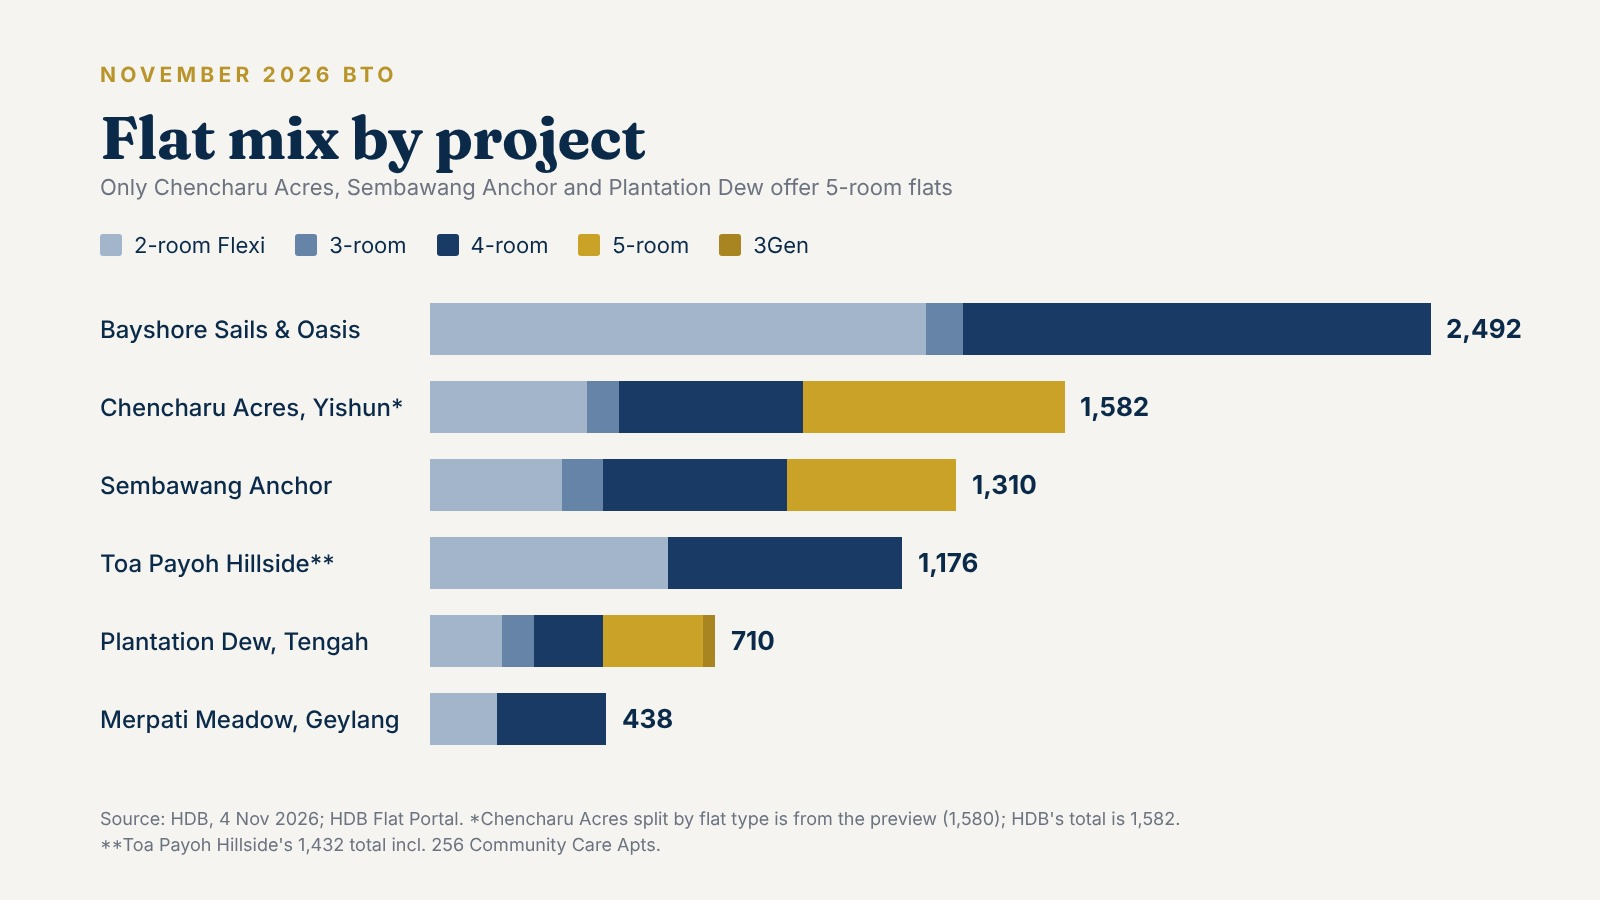
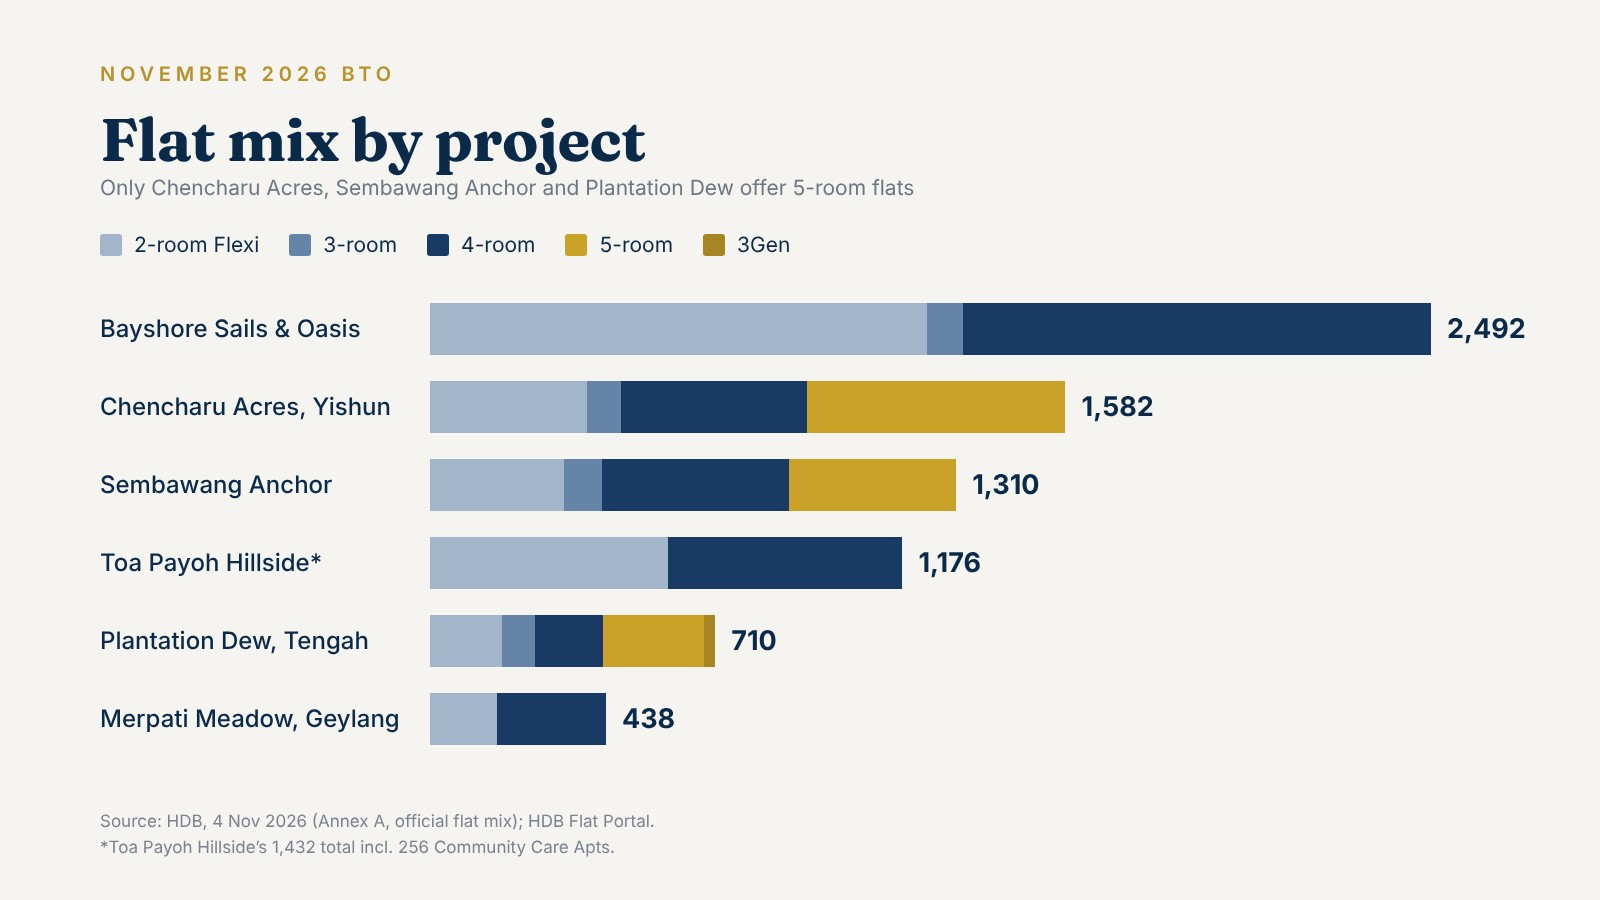
Nov 2026 BTO post: official flat mix from HDB Annex A
Chencharu Acres, Sembawang Anchor and Plantation Dew flat-type splits
replaced with HDB's official figures (4 Nov 2026); flat-mix chart
regenerated; dates and sources updated.

Claude-Session: https://claude.ai/code/session_0178RRDcT9MNhhZe1hm3Vc5W

diff --git a/blog-post-november-2026-bto-launch.html b/blog-post-november-2026-bto-launch.html
@@ -29,7 +29,7 @@
     "logo": { "@type": "ImageObject", "url": "https://sereneleeproperty.com/assets/era-logo.png" }
   },
   "datePublished": "2026-10-19",
-  "dateModified": "2026-11-05",
+  "dateModified": "2026-11-06",
   "mainEntityOfPage": { "@type": "WebPage", "@id": "https://sereneleeproperty.com/blog-post-november-2026-bto-launch" }
 }
 </script>
@@ -102,7 +102,7 @@
   <a href="/blog" class="post-back">&larr; Back to Blog</a>
   <span class="eyebrow">HDB &middot; BTO Launch Guide</span>
   <h1 style="font-size:2rem;max-width:760px;">November 2026 BTO Launch: 7 Projects, 7,964 Flats &mdash; What Buyers Need to Know</h1>
-  <p class="post-meta">Updated 5 Nov 2026 &middot; 6 min read</p>
+  <p class="post-meta">Updated 6 Nov 2026 &middot; 6 min read</p>
 </div>
 
 <div class="container">
@@ -154,13 +154,13 @@
             <tr><td>Bayshore Sails &amp; Bayshore Oasis, Bedok (2 projects)</td><td>2,492</td><td>1,237 2RF &middot; 90 3R &middot; 1,165 4R</td><td>Plus (9% subsidy recovery)</td><td>Bayshore (TEL)</td><td>$559k / $504k (Oasis); Sails from $580k</td></tr>
             <tr><td>Toa Payoh Hillside, Toa Payoh</td><td>1,432 (incl. 256 CCA)</td><td>256 CCA &middot; 592 2RF &middot; 584 4R</td><td>Prime (11% subsidy recovery)</td><td>Caldecott (CCL/TEL)</td><td>$558k / $503k</td></tr>
             <tr><td>Merpati Meadow, Geylang</td><td>438</td><td>167 2RF &middot; 271 4R</td><td>Plus (8% subsidy recovery)</td><td>Mattar (DTL)</td><td>$545k / $490k</td></tr>
-            <tr><td>Chencharu Acres, Yishun</td><td>1,582</td><td>390 2RF &middot; 80 3R &middot; 460 4R &middot; 650 5R</td><td>Standard</td><td>Khatib (NSL)</td><td>$353k / $273k</td></tr>
-            <tr><td>Sembawang Anchor (Sembawang North)</td><td>1,310</td><td>330 2RF &middot; 100 3R &middot; 460 4R &middot; 420 5R</td><td>Standard</td><td>&mdash;</td><td>$312k / $232k</td></tr>
-            <tr><td>Plantation Dew (Tengah)</td><td>710</td><td>180 2RF &middot; 80 3R &middot; 170 4R &middot; 250 5R &middot; 30 3Gen</td><td>Standard</td><td>&mdash;</td><td>$339k / $259k</td></tr>
+            <tr><td>Chencharu Acres, Yishun</td><td>1,582</td><td>392 2RF &middot; 84 3R &middot; 462 4R &middot; 644 5R</td><td>Standard</td><td>Khatib (NSL)</td><td>$353k / $273k</td></tr>
+            <tr><td>Sembawang Anchor (Sembawang North)</td><td>1,310</td><td>333 2RF &middot; 96 3R &middot; 464 4R &middot; 417 5R</td><td>Standard</td><td>&mdash;</td><td>$312k / $232k</td></tr>
+            <tr><td>Plantation Dew (Tengah)</td><td>710</td><td>178 2RF &middot; 84 3R &middot; 168 4R &middot; 252 5R &middot; 28 3Gen</td><td>Standard</td><td>&mdash;</td><td>$339k / $259k</td></tr>
           </tbody>
         </table>
       </div>
-      <p class="table-note">2RF = 2-room Flexi &middot; CCA = Community Care Apartments (assisted living for seniors). Tiers and subsidy recovery rates are official (HDB, 4 Nov 2026). Plus and Prime flats carry a 10-year MOP and a subsidy recovery when you sell; Standard flats have a 5-year MOP and none. Prices are the official starting prices for 4-room flats, before and after grants. Bedok combines Bayshore Sails (1,637) and Bayshore Oasis (855, 2-room Flexi and 4-room only).</p>
+      <p class="table-note">2RF = 2-room Flexi &middot; CCA = Community Care Apartments (assisted living for seniors). Flat mix, tiers and subsidy recovery rates are official (HDB, 4 Nov 2026). Plus and Prime flats carry a 10-year MOP and a subsidy recovery when you sell; Standard flats have a 5-year MOP and none. Prices are the official starting prices for 4-room flats, before and after grants. Bedok combines Bayshore Sails (1,637) and Bayshore Oasis (855, 2-room Flexi and 4-room only).</p>
 
       <figure class="post-figure">
         <img src="assets/bto-nov-2026-flat-mix.jpg" alt="Stacked bar chart of flat mix by project. Bayshore Sails and Bayshore Oasis (Bedok) 2,492, Chencharu Acres 1,582, Sembawang Anchor 1,310, Toa Payoh Hillside 1,176 sale flats, Plantation Dew (Tengah) 710, Merpati Meadow 438. Only Chencharu Acres, Sembawang Anchor and Plantation Dew offer 5-room flats." class="enlargeable-img" loading="lazy" width="1600">
@@ -196,7 +196,7 @@
       </ul>
       <h3>Chencharu Acres (Yishun) &mdash; best for larger families</h3>
       <ul>
-        <li>Largest 5-room supply in this launch: 650 units.</li>
+        <li>Largest 5-room supply in this launch: 644 units (official).</li>
         <li>Fifth project in the Chencharu precinct near Khatib MRT; 2 preschools planned on-site.</li>
         <li>Compare with resale prices nearby, including blocks near Khatib MRT, in the <a href="/yishun">Yishun town guide</a>.</li>
       </ul>
@@ -212,7 +212,7 @@
         <li><strong>Shorter waiting time (official):</strong> 3 years 2 months.</li>
         <li><strong>White Flats:</strong> open-concept units with no internal partition walls &mdash; the first BTO to offer them in 5-room flats. They cost $6,000 (3-room), $8,600 (4-room) and $9,000 (5-room) less than standard layouts.</li>
         <li>Walking distance to upcoming Jurong Region Line stations (opening in stages from 2028 to 2029).</li>
-        <li>Plantation district; every flat type on offer, including the launch&rsquo;s only 30 3Gen flats.</li>
+        <li>Plantation district; every flat type on offer, including the launch&rsquo;s only 28 3Gen flats.</li>
         <li><strong>Prices (official):</strong> 2-room Flexi from $131,000 and 4-room from $339,000 before grants &mdash; among the cheapest entry points this round.</li>
       </ul>
 
@@ -224,7 +224,7 @@
             <tr><td>Single, 35+, earning &le;$8,000</td><td>2-room Flexi at Bayshore, Toa Payoh Hillside or Chencharu Acres</td><td>City-fringe picks mean a 10-year MOP</td></tr>
             <tr><td>Young couple wanting city-fringe</td><td>Toa Payoh Hillside, Merpati Meadow, Bayshore</td><td>Higher price, tighter odds, 10-year MOP</td></tr>
             <tr><td>Growing family needing space</td><td>Chencharu Acres, Sembawang Anchor, Plantation Dew (Tengah)</td><td>Further from town; Standard = 5-year MOP</td></tr>
-            <tr><td>Multi-generation household</td><td>Plantation Dew, Tengah (3Gen)</td><td>Only 30 units</td></tr>
+            <tr><td>Multi-generation household</td><td>Plantation Dew, Tengah (3Gen)</td><td>Only 28 units</td></tr>
             <tr><td>Senior wanting assisted living</td><td>Toa Payoh Hillside (CCA)</td><td>Limited supply; CCA eligibility age lowered from 65 to 55 from this launch</td></tr>
           </tbody>
         </table>
@@ -256,7 +256,7 @@
       </ul>
 
       <p class="post-ai-note" style="font-size:.82rem;color:var(--muted);font-style:italic;margin-top:32px;padding:12px 16px;border-left:3px solid var(--gold);background:var(--cream);border-radius:6px;">This article was prepared with AI assistance and reviewed by Serene Lee. Figures are based on HDB&rsquo;s official launch announcement of 4 Nov 2026; please verify with the <a href="https://homes.hdb.gov.sg/" target="_blank" rel="noopener">HDB Flat Portal</a> before making any decision.</p>
-      <p class="post-sources">Information as of 5 Nov 2026. Sources: <a href="https://www.hdb.gov.sg/hdb-pulse/news/2026/hdb-launches-7964-flats-across-seven-projects-in-nov-2026-bto-sales-exercise" target="_blank" rel="noopener">HDB (4 Nov 2026)</a> &middot; <a href="https://www.mynicehome.gov.sg/get-started/hdb-bto-sales-launch/" target="_blank" rel="noopener">HDB MyNiceHome</a> &middot; <a href="https://sg.news.yahoo.com/7-964-bto-flats-launched-021938878.html" target="_blank" rel="noopener">The Straits Times (4 Nov)</a> &middot; <a href="https://www.asiaone.com/singapore/hdb-bto-november-2026-sales-exercise" target="_blank" rel="noopener">AsiaOne (4 Nov)</a> &middot; <a href="https://www.edgeprop.sg/property-news/november-bto-exercise-launches-nearly-8000-flats-including-toa-payoh-and-bayshore-units" target="_blank" rel="noopener">EdgeProp (4 Nov)</a> &middot; <a href="https://stackedhomes.com/november-2026-bto-review/" target="_blank" rel="noopener">Stacked Homes</a> &middot; <a href="https://www.hdb.gov.sg/hdb-pulse/news/2026/1310-shorter-waiting-time-flats-to-be-offered-in-november-2026-bto-exercise" target="_blank" rel="noopener">HDB (1 Nov 2026)</a> &middot; <a href="https://sg.news.yahoo.com/1-310-bto-flats-sembawang-020000312.html" target="_blank" rel="noopener">The Straits Times</a> &middot; <a href="https://www.asiaone.com/singapore/hdb-sembawang-shorter-waiting-times-november-bto-sales-exercise" target="_blank" rel="noopener">AsiaOne</a> &middot; <a href="https://goodyfeed.com/1310-sembawang-bto-flats-with-a-wait-of-two-years-10-months-to-launch-in-november/" target="_blank" rel="noopener">Goody Feed</a> &middot; <a href="https://www.propertyguru.com.sg/property-guides/november-2026-bto-launch-preview-pjx-98679" target="_blank" rel="noopener">PropertyGuru</a> &middot; <a href="https://uchify.com/hdb-bto-november-2026-launch/" target="_blank" rel="noopener">Uchify</a> &middot; <a href="https://www.edgeprop.sg/property-news/hottest-and-coolest-picks-june-and-october-bto-launches" target="_blank" rel="noopener">EdgeProp</a> &middot; <a href="https://ohmyhome.com/en-sg/blog/the-complete-guide-to-the-october-2026-bto-launch-sites-what-buyers-should-know/" target="_blank" rel="noopener">Ohmyhome</a> &middot; <a href="https://www.era.com.sg/blogs/october-2026-bto-launch-preview" target="_blank" rel="noopener">ERA</a> &middot; <a href="https://sg.properties/articles/next-bto-launch-2027" target="_blank" rel="noopener">sg.properties</a> &middot; <a href="https://www.homeswift.ai/articles/bto-hdb/november-2026-bto-launch-guide" target="_blank" rel="noopener">Homeswift</a> &middot; <a href="https://www.recordbto.com/bto-sales-launch/nov-2026-bto" target="_blank" rel="noopener">RecordBTO</a> &middot; <a href="https://homes.hdb.gov.sg/" target="_blank" rel="noopener">HDB Flat Portal</a></p>
+      <p class="post-sources">Information as of 6 Nov 2026. Sources: <a href="https://www.hdb.gov.sg/-/media/hdb-pulse/news/2026/hdb-launches-7964-flats-across-seven-projects-in-nov-2026-bto-sales-exercise/Annex-A---Nov-2026-BTO---Final.pdf" target="_blank" rel="noopener">HDB Annex A (flat mix, 4 Nov 2026)</a> &middot; <a href="https://www.hdb.gov.sg/hdb-pulse/news/2026/hdb-launches-7964-flats-across-seven-projects-in-nov-2026-bto-sales-exercise" target="_blank" rel="noopener">HDB (4 Nov 2026)</a> &middot; <a href="https://www.mynicehome.gov.sg/get-started/hdb-bto-sales-launch/" target="_blank" rel="noopener">HDB MyNiceHome</a> &middot; <a href="https://sg.news.yahoo.com/7-964-bto-flats-launched-021938878.html" target="_blank" rel="noopener">The Straits Times (4 Nov)</a> &middot; <a href="https://www.asiaone.com/singapore/hdb-bto-november-2026-sales-exercise" target="_blank" rel="noopener">AsiaOne (4 Nov)</a> &middot; <a href="https://www.edgeprop.sg/property-news/november-bto-exercise-launches-nearly-8000-flats-including-toa-payoh-and-bayshore-units" target="_blank" rel="noopener">EdgeProp (4 Nov)</a> &middot; <a href="https://stackedhomes.com/november-2026-bto-review/" target="_blank" rel="noopener">Stacked Homes</a> &middot; <a href="https://www.hdb.gov.sg/hdb-pulse/news/2026/1310-shorter-waiting-time-flats-to-be-offered-in-november-2026-bto-exercise" target="_blank" rel="noopener">HDB (1 Nov 2026)</a> &middot; <a href="https://sg.news.yahoo.com/1-310-bto-flats-sembawang-020000312.html" target="_blank" rel="noopener">The Straits Times</a> &middot; <a href="https://www.asiaone.com/singapore/hdb-sembawang-shorter-waiting-times-november-bto-sales-exercise" target="_blank" rel="noopener">AsiaOne</a> &middot; <a href="https://goodyfeed.com/1310-sembawang-bto-flats-with-a-wait-of-two-years-10-months-to-launch-in-november/" target="_blank" rel="noopener">Goody Feed</a> &middot; <a href="https://www.propertyguru.com.sg/property-guides/november-2026-bto-launch-preview-pjx-98679" target="_blank" rel="noopener">PropertyGuru</a> &middot; <a href="https://uchify.com/hdb-bto-november-2026-launch/" target="_blank" rel="noopener">Uchify</a> &middot; <a href="https://www.edgeprop.sg/property-news/hottest-and-coolest-picks-june-and-october-bto-launches" target="_blank" rel="noopener">EdgeProp</a> &middot; <a href="https://ohmyhome.com/en-sg/blog/the-complete-guide-to-the-october-2026-bto-launch-sites-what-buyers-should-know/" target="_blank" rel="noopener">Ohmyhome</a> &middot; <a href="https://www.era.com.sg/blogs/october-2026-bto-launch-preview" target="_blank" rel="noopener">ERA</a> &middot; <a href="https://sg.properties/articles/next-bto-launch-2027" target="_blank" rel="noopener">sg.properties</a> &middot; <a href="https://www.homeswift.ai/articles/bto-hdb/november-2026-bto-launch-guide" target="_blank" rel="noopener">Homeswift</a> &middot; <a href="https://www.recordbto.com/bto-sales-launch/nov-2026-bto" target="_blank" rel="noopener">RecordBTO</a> &middot; <a href="https://homes.hdb.gov.sg/" target="_blank" rel="noopener">HDB Flat Portal</a></p>
     </div>
 
     <div class="post-related">
@@ -301,7 +301,7 @@
       <p><strong>Serene Lee</strong> &middot; CEA Registration No. R027578Z</p>
       <p><a href="/privacy" class="footer-subscribe">Privacy Policy</a> &middot; <a href="/useful-numbers" class="footer-subscribe">Useful Phone Numbers</a></p>
       <p><a href="/subscribers" class="footer-subscribe">Subscribe to my blog &amp; newsletter &rarr;</a></p>
-      <p>Unit counts, flat classifications and prices in this article are based on HDB&rsquo;s official launch announcement of 4 Nov 2026 and reports of it, as of 5 Nov 2026. Always verify on the HDB Flat Portal. This website is for general information only and does not constitute financial, mortgage, or legal advice.</p>
+      <p>Unit counts, flat classifications and prices in this article are based on HDB&rsquo;s official launch announcement of 4 Nov 2026 and reports of it, as of 6 Nov 2026. Always verify on the HDB Flat Portal. This website is for general information only and does not constitute financial, mortgage, or legal advice.</p>
       <p>&copy; <span id="year"></span> Serene Lee. All rights reserved.</p>
     </div>
   </div>

diff --git a/blog.html b/blog.html
@@ -117,7 +117,7 @@
       </div>
       <div>
         <span class="blog-tag blog-tag-own">BTO Guide</span>
-        <span style="font-size:.75rem;color:var(--muted);margin-left:8px;">Updated 5 Nov 2026 &middot; 6 min read</span>
+        <span style="font-size:.75rem;color:var(--muted);margin-left:8px;">Updated 6 Nov 2026 &middot; 6 min read</span>
         <div class="blog-title" style="font-size:1.2rem;">November 2026 BTO Launch: 7 Projects, 7,964 Flats</div>
         <div class="blog-excerpt" style="max-width:700px;">Applications open 4&ndash;11 Nov. Bayshore Sails, Bayshore Oasis, Toa Payoh Hillside, Merpati Meadow, Chencharu Acres, Sembawang Anchor and Plantation Dew: official tiers, prices, waiting times and my ballot tips.</div>
         <a href="/blog-post-november-2026-bto-launch" style="font-size:.85rem;font-weight:700;color:var(--navy-900);">Read the full guide &rarr;</a>
